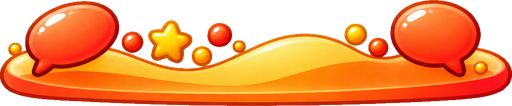
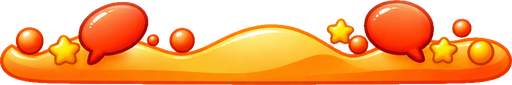
publicar sitio

diff --git a/assets/css/app.css b/assets/css/app.css
@@ -441,9 +441,12 @@ body.app {
   /* TRES COLUMNAS: el rótulo, el texto y el hueco del disco. El `1fr` del
      medio es `minmax(0, 1fr)` por lo de siempre —si no, el texto más largo
      ensancha la fila y el home scrollea de lado—. */
-  display: grid; grid-template-columns: 104px minmax(0, 1fr);
-  gap: var(--e-3); align-items: center; align-content: start;
-  width: 100%; min-height: var(--alto-carta); padding: 12px 74px 12px 12px;
+  display: grid; grid-template-columns: 130px minmax(0, 1fr);
+  gap: var(--e-1); align-items: center; align-content: start;
+  /* EL PADDING DERECHO ES EL SITIO DE LA BOMBILLA, y se mide contra ella: 48
+     de disco más 8 de aire a cada lado. Con el rótulo a 130 px, cada píxel que
+     se le quite de más al texto lo parte en un renglón más. */
+  width: 100%; min-height: var(--alto-carta); padding: 10px 62px 10px 10px;
   border: 0; border-radius: var(--radio-carta); overflow: hidden;
   text-align: left; font: inherit; color: var(--tinta);
   box-shadow: var(--sombra-2);
@@ -496,8 +499,8 @@ body.app {
    los 132— y la bombilla quedaba medio hundida en el dibujo. Va alineada con
    el texto, que es lo que hay arriba y con lo que se lee en pareja. */
 .carta-modo__explica {
-  position: absolute; right: 14px; top: 10px;
-  width: 52px; height: 52px; padding: 0;
+  position: absolute; right: 8px; top: 10px;
+  width: 48px; height: 48px; padding: 0;
   display: grid; place-items: center;
   border: 0; background: none; cursor: pointer;
   transition: transform var(--dur-corta) var(--suave);
@@ -506,7 +509,7 @@ body.app {
 @media (prefers-reduced-motion: reduce) {
   .carta-modo__explica:active { transform: none; }
 }
-.carta-modo__explica .ico { width: 46px; height: 46px; }
+.carta-modo__explica .ico { width: 48px; height: 48px; }
 
 /* LAS PEANAS VUELVEN (titular, 2026-09-16), y van ENTERAS.
    ⚠ El primer intento las recortó con `object-fit: cover` para que cupieran en
@@ -529,9 +532,19 @@ body.app {
    dibujo puesto encima, y rebajada se leería como una mancha. Va detrás del
    contenido (`z-index` 0 contra 1), y lo que mantiene el texto fuera de ella
    es que el contenido se alinea ARRIBA. */
+/* SE SALE POR LOS LADOS Y LA CARTA LA CORTA (mockup del titular, 2026-09-16).
+   Al 100 % del ancho la pieza entra justa y se ven sus dos extremos redondeados
+   enteros, que la delatan como un dibujo pegado dentro de la carta. Pintándola
+   más ancha que la carta —y con el `overflow: hidden` que la carta ya tiene— lo
+   que se ve es la parte de en medio, con los corazones y las estrellas de los
+   bordes CORTADOS por el canto. Eso es lo que la hace leer como suelo de la
+   carta y no como una pegatina puesta encima.
+   Va centrada con `left: 50%` y `translateX` para que el recorte sea igual por
+   los dos lados: anclándola a un lado, el dibujo se descentraría. */
 .carta-modo__base, .publico__base {
-  position: absolute; left: -2px; right: -2px; bottom: -2px; z-index: 0;
-  width: calc(100% + 4px); height: auto; display: block; pointer-events: none;
+  position: absolute; left: 50%; bottom: -2px; z-index: 0;
+  width: 118%; transform: translateX(-50%);
+  height: auto; display: block; pointer-events: none;
 }
 .carta-modo__rotulo, .carta-modo__gancho,
 .publico__alto, .publico__texto { position: relative; z-index: 1; }
@@ -3950,8 +3963,8 @@ body.app {
 
 .publico {
   position: relative;
-  display: grid; grid-template-columns: 76px minmax(0, 1fr);
-  gap: var(--e-3); align-items: center; align-content: start;
+  display: grid; grid-template-columns: 88px minmax(0, 1fr);
+  gap: var(--e-2); align-items: center; align-content: start;
   min-height: var(--alto-carta); padding: var(--e-3);
   border: 0; border-radius: var(--radio-carta); overflow: hidden;
   text-align: left; font: inherit; color: var(--tinta);
@@ -4019,15 +4032,22 @@ body.app {
    para lo que están.
    `flex-end` porque el texto de la carta va a la derecha: alineados a la
    izquierda romperían el canto que comparten los tres renglones. */
+/* ⚠ LOS TRES CHIPS TIENEN QUE CABER EN UNA LÍNEA. Al agrandar el icono de la
+   mesa se partieron en dos y la carta creció, rompiendo la altura común con
+   las de modo. El ancho que queda para ellos es el de la carta menos el icono,
+   el hueco y los dos paddings —unos 215 px—, y los tres más largos
+   —«Convivencia · Dinero · Horarios»— suman justo eso con este relleno. Si
+   alguna mesa estrena una palabra más larga, esto es lo que hay que volver a
+   medir. */
 .publico__marcas {
-  display: flex; flex-wrap: wrap; gap: 6px; margin-top: 4px;
+  display: flex; flex-wrap: wrap; gap: 5px; margin-top: 4px;
   justify-content: flex-end;
 }
 .publico__marca {
-  padding: 4px 11px; border-radius: var(--radio-pastilla);
+  padding: 3px 9px; border-radius: var(--radio-pastilla);
   background: var(--mesa-fuerte);
-  font-size: var(--t-mini); font-weight: 800; line-height: 1.2;
-  color: var(--blanco);
+  font-size: var(--t-mini); font-weight: 800; line-height: 1.25;
+  color: var(--blanco); white-space: nowrap;
 }
 
 /* La peana de la mesa comparte regla con la del modo: ver `.carta-modo__base`. */

diff --git a/app/index.html b/app/index.html
@@ -11,11 +11,11 @@
 <title>ATWI</title>
 <meta name="description" content="¡Resuélvelo como adulto, Jugando! Modo ControversIA y modo NegocIAción.">
 
-<link rel="stylesheet" href="../assets/css/fuentes.css?v=a028f61">
-<link rel="stylesheet" href="../assets/css/tokens.css?v=a028f61">
-<link rel="stylesheet" href="../assets/css/base.css?v=a028f61">
-<link rel="stylesheet" href="../assets/css/app.css?v=a028f61">
-<link rel="stylesheet" href="../assets/css/modal.css?v=a028f61">
+<link rel="stylesheet" href="../assets/css/fuentes.css?v=edc23e3">
+<link rel="stylesheet" href="../assets/css/tokens.css?v=edc23e3">
+<link rel="stylesheet" href="../assets/css/base.css?v=edc23e3">
+<link rel="stylesheet" href="../assets/css/app.css?v=edc23e3">
+<link rel="stylesheet" href="../assets/css/modal.css?v=edc23e3">
 </head>
 
 <body class="app">
@@ -270,18 +270,18 @@
 
 <p class="aviso-escritorio">ATWI está diseñado solo para móvil. Esto es una vista previa dentro de un marco de teléfono.</p>
 
-<script src="../assets/js/config.js?v=a028f61"></script>
-<script src="../assets/js/precarga.js?v=a028f61"></script>
-<script src="../assets/js/iconos.js?v=a028f61"></script>
-<script src="../assets/js/personajes.js?v=a028f61"></script>
-<script src="../assets/js/datos.js?v=a028f61"></script>
-<script src="../assets/js/sonido.js?v=a028f61"></script>
-<script src="../assets/js/veredicto.js?v=a028f61"></script>
-<script src="../assets/js/grabadora.js?v=a028f61"></script>
-<script src="../assets/js/partida.js?v=a028f61"></script>
-<script src="../assets/js/auth.js?v=a028f61"></script>
-<script src="../assets/js/entrada.js?v=a028f61"></script>
-<script src="../assets/js/nube.js?v=a028f61"></script>
-<script src="../assets/js/app.js?v=a028f61"></script>
+<script src="../assets/js/config.js?v=edc23e3"></script>
+<script src="../assets/js/precarga.js?v=edc23e3"></script>
+<script src="../assets/js/iconos.js?v=edc23e3"></script>
+<script src="../assets/js/personajes.js?v=edc23e3"></script>
+<script src="../assets/js/datos.js?v=edc23e3"></script>
+<script src="../assets/js/sonido.js?v=edc23e3"></script>
+<script src="../assets/js/veredicto.js?v=edc23e3"></script>
+<script src="../assets/js/grabadora.js?v=edc23e3"></script>
+<script src="../assets/js/partida.js?v=edc23e3"></script>
+<script src="../assets/js/auth.js?v=edc23e3"></script>
+<script src="../assets/js/entrada.js?v=edc23e3"></script>
+<script src="../assets/js/nube.js?v=edc23e3"></script>
+<script src="../assets/js/app.js?v=edc23e3"></script>
 </body>
 </html>

diff --git a/index.html b/index.html
@@ -15,11 +15,11 @@
 <title>ATWI · El juego de debate para parejas</title>
 <meta name="description" content="De uno a cinco turnos. Ustedes deciden antes de grabar; después habla la máquina.">
 
-<link rel="stylesheet" href="assets/css/fuentes.css?v=a028f61">
-<link rel="stylesheet" href="assets/css/tokens.css?v=a028f61">
-<link rel="stylesheet" href="assets/css/base.css?v=a028f61">
-<link rel="stylesheet" href="assets/css/landing.css?v=a028f61">
-<link rel="stylesheet" href="assets/css/modal.css?v=a028f61">
+<link rel="stylesheet" href="assets/css/fuentes.css?v=edc23e3">
+<link rel="stylesheet" href="assets/css/tokens.css?v=edc23e3">
+<link rel="stylesheet" href="assets/css/base.css?v=edc23e3">
+<link rel="stylesheet" href="assets/css/landing.css?v=edc23e3">
+<link rel="stylesheet" href="assets/css/modal.css?v=edc23e3">
 </head>
 
 <body class="landing">
@@ -172,6 +172,6 @@
 
 </div>
 
-<script src="assets/js/config.js?v=a028f61"></script>
+<script src="assets/js/config.js?v=edc23e3"></script>
 </body>
 </html>

diff --git a/prueba-microfono.html b/prueba-microfono.html
@@ -17,7 +17,7 @@
   localhost, así que desde el teléfono va por https://atwi.app/prueba-microfono.html
   y NO por la IP del servidor local, donde Chrome lo bloquea en silencio.
 -->
-<link rel="stylesheet" href="assets/css/tokens.css?v=a028f61">
+<link rel="stylesheet" href="assets/css/tokens.css?v=edc23e3">
 <style>
   * { box-sizing: border-box; }
   body {
@@ -62,7 +62,7 @@
 <button class="suave" id="b-copiar" disabled>Copiar el informe</button>
 <button class="suave" id="b-bajar" disabled>Bajar el audio</button>
 
-<script src="assets/js/grabadora.js?v=a028f61"></script>
+<script src="assets/js/grabadora.js?v=edc23e3"></script>
 <script>
 (function () {
   'use strict';

diff --git a/assets/js/config.js b/assets/js/config.js
@@ -93,7 +93,7 @@ window.ATWI.config = {
      sube, y con el mismo sello va el `?v=` de los CSS, los JS y el catálogo.
      Sin esto el navegador del teléfono se queda con los archivos viejos aunque
      el sitio ya esté actualizado, que es justo lo que pasó el 2026-09-12. */
-  version: 'a028f61',
+  version: 'edc23e3',
 
   /* Proyecto de Supabase (región us-west-2, Oregón: hay que declararla en la
      política de privacidad). La clave anon es PÚBLICA por diseño: viaja al

diff --git a/admin/index.html b/admin/index.html
@@ -194,7 +194,7 @@
   </div>
 </div>
 
-<script src="../assets/js/config.js?v=a028f61"></script>
-<script src="tablero.js?v=a028f61"></script>
+<script src="../assets/js/config.js?v=edc23e3"></script>
+<script src="tablero.js?v=edc23e3"></script>
 </body>
 </html>
